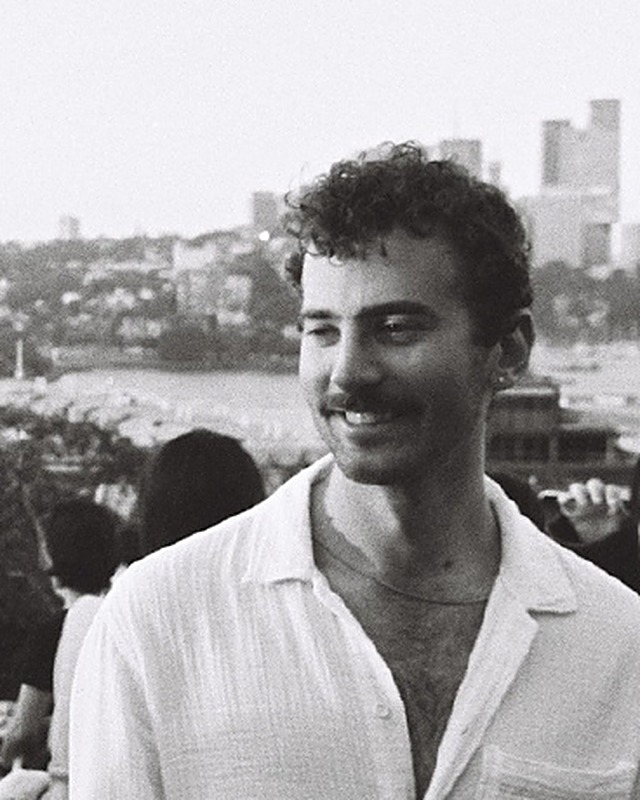
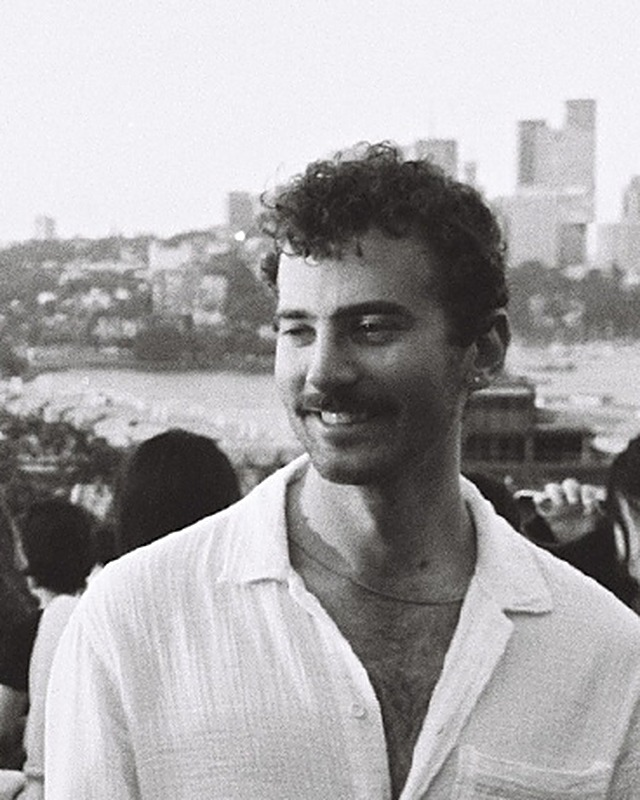
Polish grid/list view styling and recenter two more headshots
- Grid view: switch company/location line from mono to regular type,
  darken the polaroid drop shadow, widen the gap below the
  search/filter toolbar, and add a 6-column breakpoint on very wide
  screens so cards don't blow up.
- List view: make the spotlight photo a bit larger, and add a top
  fade to match the existing bottom fade on the scrollable row list.
- Recrop Bennett Huffman and Brian Thompson so their faces are
  actually centered in the frame.

diff --git a/src/prototypes/board-of-advisors/AdvisorTableView.tsx b/src/prototypes/board-of-advisors/AdvisorTableView.tsx
@@ -23,7 +23,7 @@ function SpotlightContent({ advisor }: { advisor: Advisor }) {
   return (
     <>
       <a
-        className={`${polaroidFrameClassName} ${polaroidPaddingClassName} group mx-auto block w-[min(100%,calc(clamp(184px,18vw,272px)*1.03))] focus-visible:outline-2 focus-visible:outline-offset-2 focus-visible:outline-ink`}
+        className={`${polaroidFrameClassName} ${polaroidPaddingClassName} group mx-auto block w-[min(100%,calc(clamp(200px,20vw,300px)*1.03))] focus-visible:outline-2 focus-visible:outline-offset-2 focus-visible:outline-ink`}
         href={advisor.href}
         target={advisor.href === "#" ? undefined : "_blank"}
         rel={advisor.href === "#" ? undefined : "noreferrer"}
@@ -153,7 +153,7 @@ export function AdvisorTableView({ rows }: { rows: Advisor[] }) {
           <AdvisorEmptyState />
         ) : (
           <ol
-            className="m-0 list-none p-0 min-[821px]:absolute min-[821px]:inset-0 min-[821px]:overflow-y-auto min-[821px]:overscroll-contain min-[821px]:pb-16 min-[821px]:[mask-image:linear-gradient(to_bottom,black_calc(100%-56px),transparent)] min-[821px]:[scrollbar-width:thin]"
+            className="m-0 list-none p-0 min-[821px]:absolute min-[821px]:inset-0 min-[821px]:overflow-y-auto min-[821px]:overscroll-contain min-[821px]:pb-16 min-[821px]:[mask-image:linear-gradient(to_bottom,transparent,black_56px,black_calc(100%-56px),transparent)] min-[821px]:[scrollbar-width:thin]"
             aria-label="Board of Advisors table"
           >
             {rows.map((advisor) => (

diff --git a/src/prototypes/board-of-advisors/AdvisorCardsView.tsx b/src/prototypes/board-of-advisors/AdvisorCardsView.tsx
@@ -11,7 +11,7 @@ import {
   Portrait,
   SocialLinks,
   advisorLocationLabel,
-  monoCellClassName,
+  cardCellClassName,
   polaroidFrameClassName,
   polaroidPaddingClassName,
 } from "./directory-ui";
@@ -70,7 +70,7 @@ function AdvisorCard({ advisor, index }: { advisor: Advisor; index: number }) {
         </div>
         <div className="flex flex-col items-start min-[520px]:flex-row min-[520px]:items-center min-[520px]:justify-between min-[520px]:gap-2">
           <div
-            className={`${monoCellClassName} w-full min-w-0 truncate text-ink min-[520px]:w-auto`}
+            className={`${cardCellClassName} w-full min-w-0 truncate text-ink min-[520px]:w-auto`}
             title={[advisor.company, advisorLocationLabel(advisor)].filter(Boolean).join(" · ")}
           >
             {advisor.company}
@@ -96,7 +96,7 @@ export function AdvisorCardsView({ rows }: { rows: Advisor[] }) {
         <AdvisorEmptyState />
       ) : (
         <ul
-          className="m-0 grid list-none grid-cols-2 gap-x-5 gap-y-12 p-0 min-[640px]:grid-cols-3 min-[1024px]:grid-cols-4 min-[1024px]:gap-x-8 min-[1024px]:gap-y-14 min-[1440px]:grid-cols-5"
+          className="m-0 grid list-none grid-cols-2 gap-x-5 gap-y-12 p-0 min-[640px]:grid-cols-3 min-[1024px]:grid-cols-4 min-[1024px]:gap-x-9 min-[1024px]:gap-y-16 min-[1440px]:grid-cols-5 min-[1800px]:grid-cols-6"
           aria-label="Board of Advisors cards"
         >
           <AnimatePresence mode="popLayout" initial={false}>

diff --git a/src/prototypes/board-of-advisors/directory-ui.tsx b/src/prototypes/board-of-advisors/directory-ui.tsx
@@ -10,9 +10,10 @@ import { advisorAvatarClass, advisorFullName, advisorInitials, type Advisor } fr
 
 export const monoLabelClassName = "font-mono text-[11px] uppercase tracking-[0.08em]";
 export const monoCellClassName = "font-mono text-xs leading-[1.5] text-muted";
+export const cardCellClassName = "text-xs leading-[1.5] text-muted";
 
 export const polaroidFrameClassName =
-  "rounded-[4px] bg-white shadow-[0_1px_2px_rgba(15,23,42,0.06),0_8px_24px_rgba(15,23,42,0.08)]";
+  "rounded-[4px] bg-white shadow-[0_1px_2px_rgba(15,23,42,0.1),0_8px_24px_rgba(15,23,42,0.14)]";
 
 export const polaroidPaddingClassName = "p-[clamp(6px,0.7vw,10px)]";
 

diff --git a/src/prototypes/board-of-advisors/AdvisorsDirectory.tsx b/src/prototypes/board-of-advisors/AdvisorsDirectory.tsx
@@ -33,7 +33,7 @@ export function AdvisorsDirectory({
         </p>
       </ScrollReveal>
       <ScrollReveal delay={60}>
-        <div className="mt-[clamp(40px,6vw,72px)] flex items-center justify-end pb-4">
+        <div className="mt-[clamp(40px,6vw,72px)] flex items-center justify-end pb-7">
           <div className="flex w-full min-w-0 items-center justify-end gap-2 min-[640px]:w-auto">
             <label className="relative flex min-w-0 flex-1 items-center min-[640px]:w-[260px] min-[640px]:flex-none">
               <span className="sr-only">Search advisors</span>
